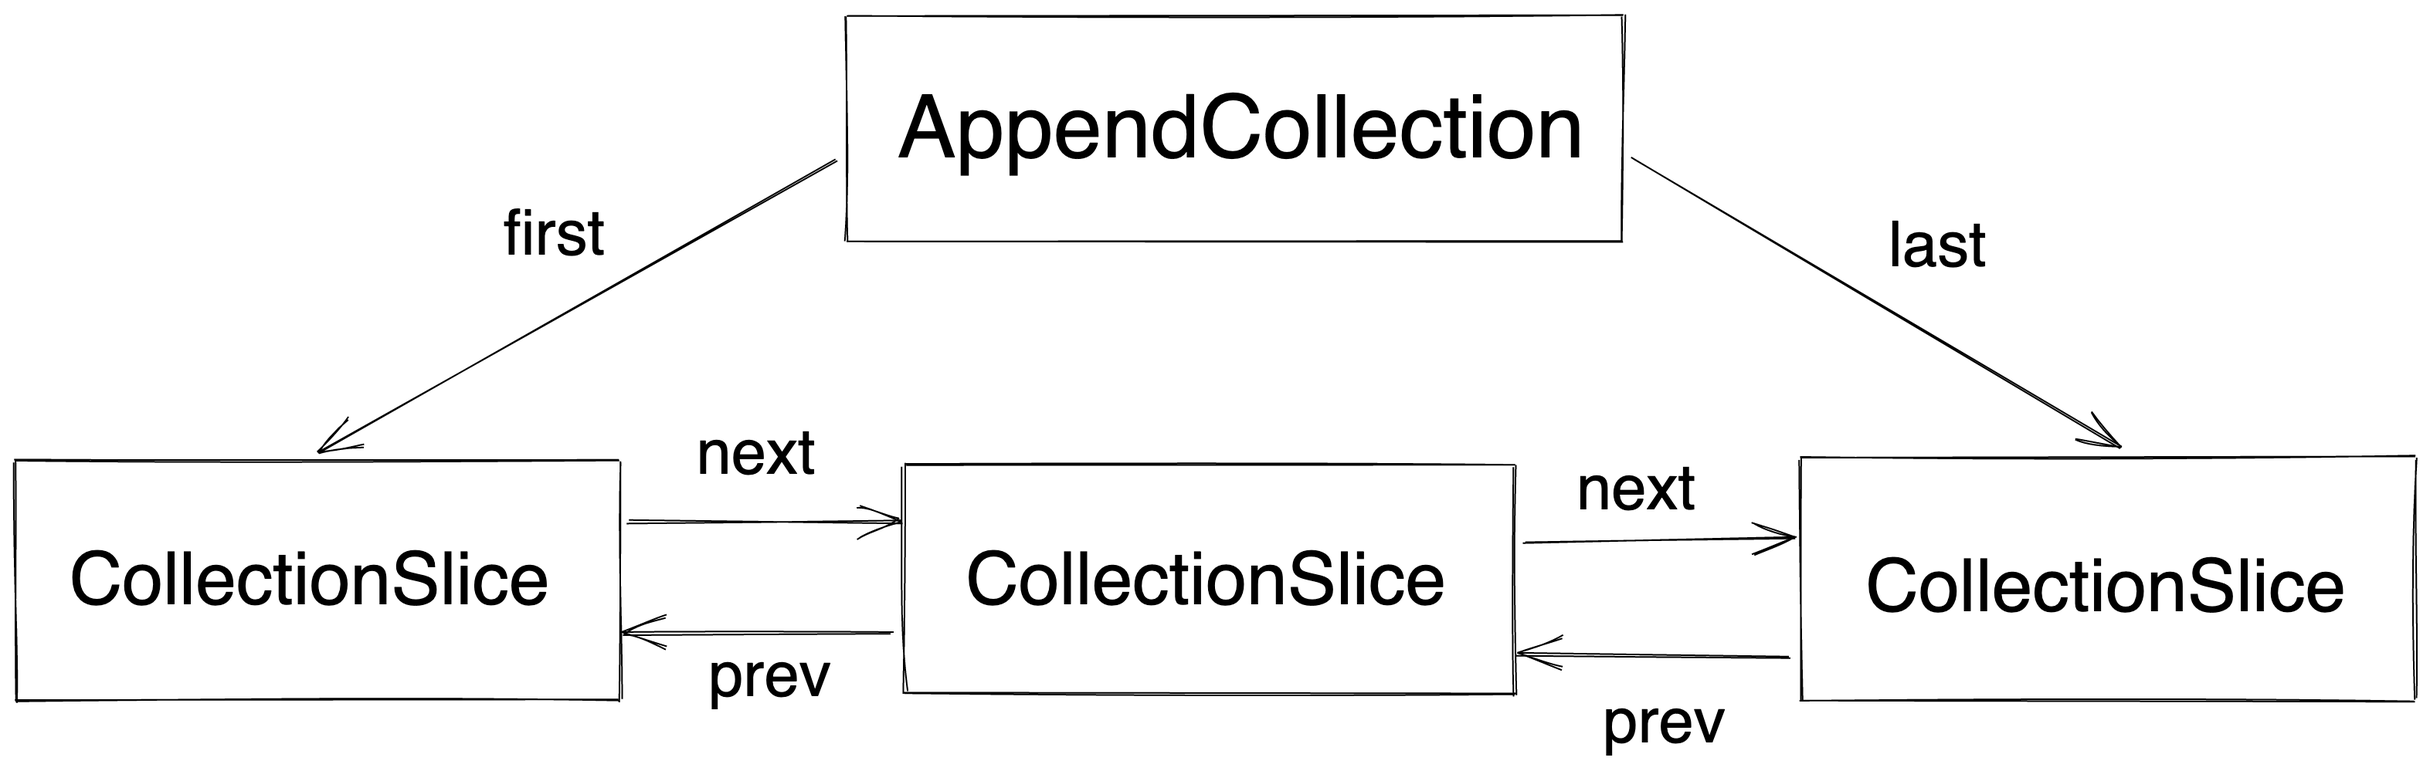
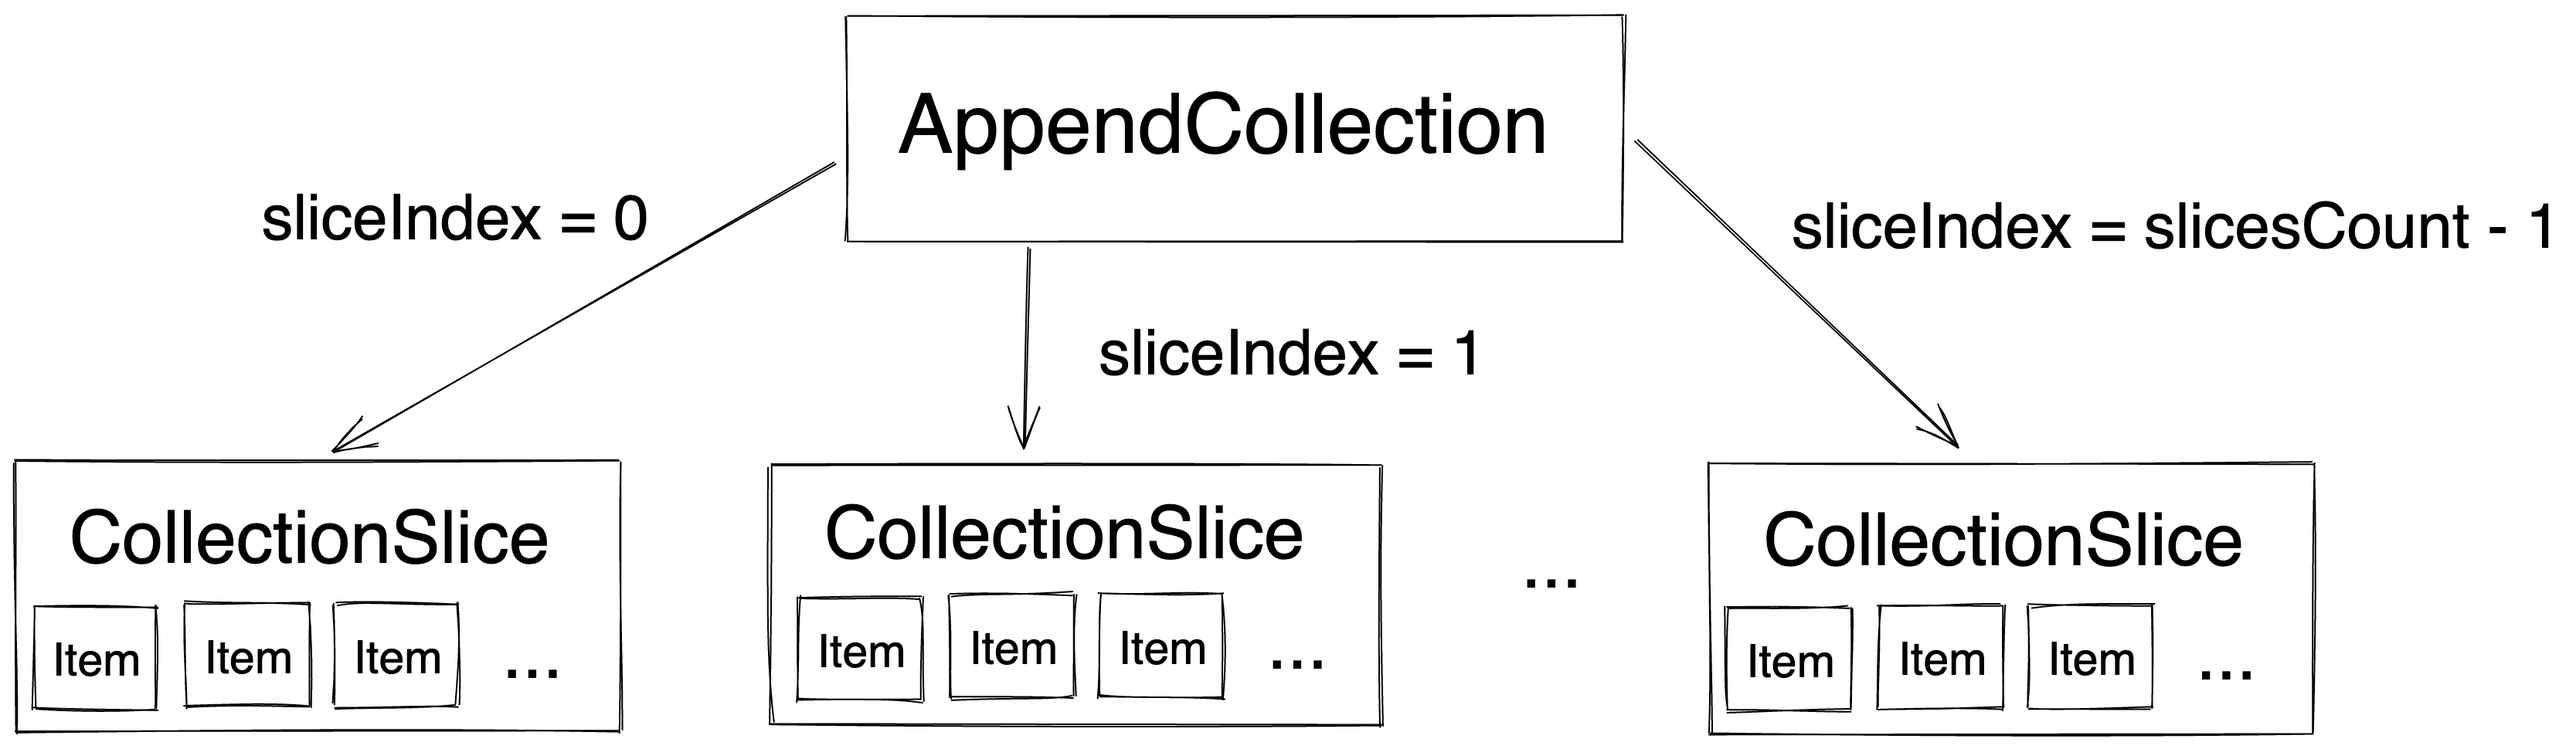
Update CIP-85

diff --git a/CIPs/CIP-85/CIP-85.md b/CIPs/CIP-85/CIP-85.md
@@ -50,20 +50,20 @@ A Collection "instance" would therefore be made of 1 `AppendCollection` document
 
 The `AppendCollection` schema must be an `object` with a `$ceramic` field from [CIP-88](../CIP-88/CIP-88.md) having the type `appendCollection` and pointing to the slice's `schema`, along with the following properties:
 
-- `sliceSize`: the maximum number of items a single slice should contain
+- `sliceMaxItems`: the maximum number of items a single slice should contain
 - `slicesCount`: the total number of slices the collection contains
 
 ```js
 {
   $schema: 'http://json-schema.org/draft-07/schema#',
-  $ceramic: { type: 'appendCollection', schema: '<slice schema ID>' },
+  $ceramic: { type: 'appendCollection', sliceSchema: '<slice schema ID>' },
   title: 'MyCollection',
   type: 'object',
   properties: {
-    sliceSize: { type: 'integer', minimum: 10, maximum: 256 },
+    sliceMaxItems: { type: 'integer', minimum: 10, maximum: 256 },
     slicesCount: { type: 'integer', minimum: 1 },
   },
-  required: ['sliceSize', 'slicesCount']
+  required: ['sliceMaxItems', 'slicesCount']
 }
 ```
 
@@ -72,18 +72,18 @@ The `AppendCollection` schema must be an `object` with a `$ceramic` field from [
 The `CollectionSlice` schema must be an `object` with a `$ceramic` field from [CIP-88](../CIP-88/CIP-88.md) having the type `collectionSlice` and pointing to the slice's `schema`, along with the following properties:
 
 - `collection`: the DocID of the collection the slice is part of
-- `sliceNumber`: number of the slice in the collection, between `0` and the collection's `slicesCount` minus `1`
-- `contents`: array with a `maxItems` value matching the `AppendCollection` `sliceSize` property and defining the items schemas, that must include `{ type: 'null' }` in order to support removals
+- `sliceIndex`: index of the slice in the collection, between `0` and the collection's `slicesCount` minus `1`
+- `contents`: array with a `maxItems` value matching the `AppendCollection` `sliceMaxItems` property and defining the items schemas, that must include `{ type: 'null' }` in order to support removals
 
 ```js
 {
   $schema: 'http://json-schema.org/draft-07/schema#',
-  $ceramic: { type: 'collectionSlice', schema: '<slice schema ID>' },
+  $ceramic: { type: 'collectionSlice' },
   title: 'MyCollectionSLice',
   type: 'object',
   properties: {
     collection: { type: 'string', maxLength: 150 },
-    sliceNumber: { type: 'integer', minimum: 0 },
+    sliceIndex: { type: 'integer', minimum: 0 },
     contents: {
       type: 'array',
       maxItems: 256,
@@ -93,7 +93,7 @@ The `CollectionSlice` schema must be an `object` with a `$ceramic` field from [C
       },
     },
   },
-  required: ['collection', 'sliceNumber', 'contents'],
+  required: ['collection', 'sliceIndex', 'contents'],
 }
 ```
 
@@ -104,14 +104,15 @@ The `CollectionSlice` schema must be an `object` with a `$ceramic` field from [C
 Accessing slices in the collection relies on Ceramic's ability to load documents deterministically based on their genesis contents:
 
 - `collection`: the collection's `DocID` string
-- `sliceNumber`: the slice's number, an integer between `0` (first slice) and `slicesCount - 1` (last slice)
+- `sliceIndex`: the slice's index, an integer between `0` (first slice) and `slicesCount - 1` (last slice)
 - `contents`: empty array
 
 #### First insertion
 
 > This flow assumes a prerequisite check that the `AppendCollection` document has not been created yet.
 
-1. Create a deterministic `CollectionSlice` document with `sliceNumber` of `0` and an empty `contents` array.
+1. Create the `AppendCollection` document.
+1. Create a deterministic `CollectionSlice` document with `sliceIndex` of `0` and an empty `contents` array.
 1. Update the created `CollectionSlice` document with the `contents` array containing the item to insert.
 1. Create the `AppendCollection` document with a `slicesCount` of `1`.
 
@@ -121,9 +122,9 @@ Accessing slices in the collection relies on Ceramic's ability to load documents
 1. Load the most recent `CollectionSlice` document based on its deterministic content, using the `slicesCount` from the collection.
 1. Check the length of the `contents` array of the `CollectionSlice`:
 
-- If it is lower than the `sliceSize` value of the `AppendCollection`, add the item to the `contents` array.
-- If it is equal to the `sliceSize` value:
-  1. Create a new deterministic `CollectionSlice` document with `sliceNumber` equal to the `sliceNumber` of the previous slice plus `1` and an empty `contents` array.
+- If it is lower than the `sliceMaxItems` value of the `AppendCollection`, add the item to the `contents` array.
+- If it is equal to the `sliceMaxItems` value:
+  1. Create a new deterministic `CollectionSlice` document with `sliceIndex` equal to the `sliceIndex` of the previous slice plus `1` and an empty `contents` array.
   1. Update the created `CollectionSlice` document with the `contents` array containing the item to insert.
   1. Update the `AppendCollection` document with the incremented `slicesCount`.
 
@@ -140,7 +141,7 @@ Loading multiple items can be done in order (from the `first` slice) or reverse 
 
 - `first: N`
 
-  1. Load the `CollectionSlice` document based on its determistic content with a `sliceNumber` of `0`.
+  1. Load the `CollectionSlice` document based on its determistic content with a `sliceIndex` of `0`.
   1. Iterate through `contents` filtering out `null` values until `N` items are collected.
   1. If `N` items are not collected, load the next slice deterministically and continue from previous step.
 
